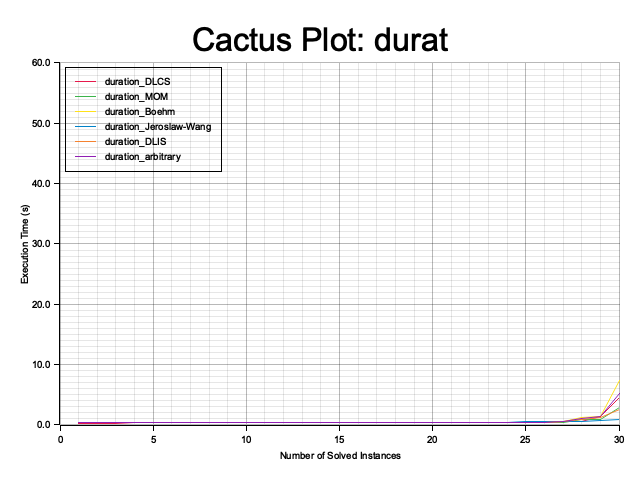
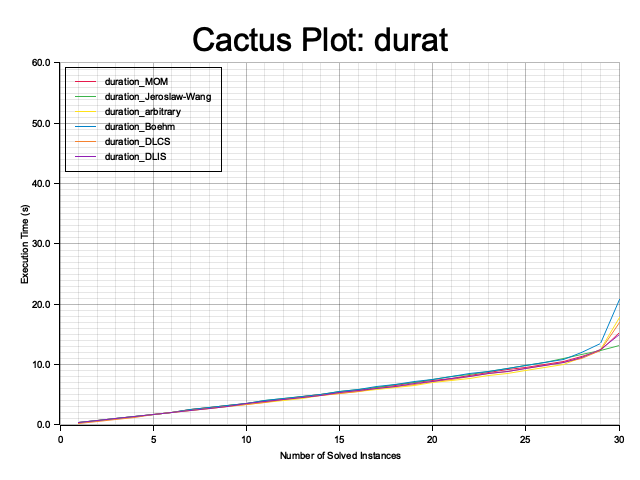
cummulative sum for cactus plots

diff --git a/src/visuals/cactus.rs b/src/visuals/cactus.rs
@@ -1,3 +1,4 @@
+// Import necessary libraries
 use plotters::prelude::*;
 use csv::Reader;
 use std::error::Error;
@@ -5,28 +6,37 @@ use glob::glob;
 use std::collections::HashMap;
 
 fn main() -> Result<(), Box<dyn Error>> {
+    // Define file patterns and output directory
     let patterns = ["src/cputime/60sec_*.csv", "src/cputime/duration_*.csv"];
     let output_dir = "src/visuals/plots";
 
+    // Create the output directory if it doesn't exist
     std::fs::create_dir_all(output_dir)?;
 
+    // Iterate over each pattern
     for pattern in patterns.iter() {
+        // Create a HashMap to store the data
         let mut all_data: HashMap<String, Vec<f64>> = HashMap::new();
 
+        // Iterate over each file matching the pattern
         for entry in glob(pattern)? {
             let path = entry?;
             let file_name = path.file_stem().ok_or("Invalid file name")?.to_str().ok_or("Invalid file name")?;
 
+            // Read the CSV file
             let path_clone = path.clone();
             let mut rdr = Reader::from_path(path_clone)?;
         
+            // Iterate over each record in the CSV file
             for result in rdr.records() {
                 let record = result?;
                 let execution_time: f64 = record[3].parse().unwrap_or(0.0);
+                // Insert the execution time into the HashMap
                 all_data.entry(file_name.to_string()).or_insert_with(Vec::new).push(execution_time);
             }
         }
 
+        // If the HashMap is not empty, create a cactus plot
         if !all_data.is_empty() {
             create_cactus_plot(&all_data, &pattern[12..17], output_dir)?;
         }
@@ -35,13 +45,17 @@ fn main() -> Result<(), Box<dyn Error>> {
     Ok(())
 }
 
+// Function to create a cactus plot
 fn create_cactus_plot(data: &HashMap<String, Vec<f64>>, plot_name: &str, output_dir: &str) -> Result<(), Box<dyn Error>> {
+    // Define the output file path
     let output_file = format!("{}/{}_cactus_plot.png", output_dir, plot_name);
+    // Create a drawing area
     let root = BitMapBackend::new(&output_file, (640, 480)).into_drawing_area();
     root.fill(&WHITE)?;
 
-    let margin = 20; // Randgröße in Pixeln
+    let margin = 20; // Margin size in pixels
 
+    // Create a chart with labels and margins
     let mut chart = ChartBuilder::on(&root)
         .caption(format!("Cactus Plot: {}", plot_name), ("sans-serif", 40).into_font())
         .margin(margin)
@@ -49,20 +63,28 @@ fn create_cactus_plot(data: &HashMap<String, Vec<f64>>, plot_name: &str, output_
         .y_label_area_size(40)
         .build_cartesian_2d(0..data.values().map(|v| v.len()).max().unwrap_or(0), 0f64..60f64)?;
 
+    // Configure the mesh of the chart
     chart.configure_mesh()
         .x_desc("Number of Solved Instances")
         .y_desc("Execution Time (s)")
         .draw()?;
 
     let mut color_index = 0;
+    // Iterate over each heuristic and its corresponding execution times
     for (heuristic, times) in data {
         let mut sorted_times = times.clone();
         sorted_times.sort_by(|a, b| a.partial_cmp(b).unwrap());
-        let points: Vec<(usize, f64)> = sorted_times.iter().enumerate().map(|(idx, &time)| (idx + 1, time)).collect();
+    
+        let mut cumulative_sum = 0.0; // Cumulative sum of execution times
+        let points: Vec<(usize, f64)> = sorted_times.iter().enumerate().map(|(idx, &time)| {
+            cumulative_sum += time;
+            (idx + 1, cumulative_sum)
+        }).collect();
         
         let color = Palette99::pick(color_index);
         let legend_color_index = color_index; 
     
+        // Draw a line series for each heuristic
         chart.draw_series(
             LineSeries::new(points, &color)
         )?.label(heuristic)
@@ -74,6 +96,7 @@ fn create_cactus_plot(data: &HashMap<String, Vec<f64>>, plot_name: &str, output_
         color_index += 1;
     }
     
+    // Configure the series labels of the chart
     chart.configure_series_labels()
         .border_style(&BLACK)
         .position(SeriesLabelPosition::UpperLeft)
